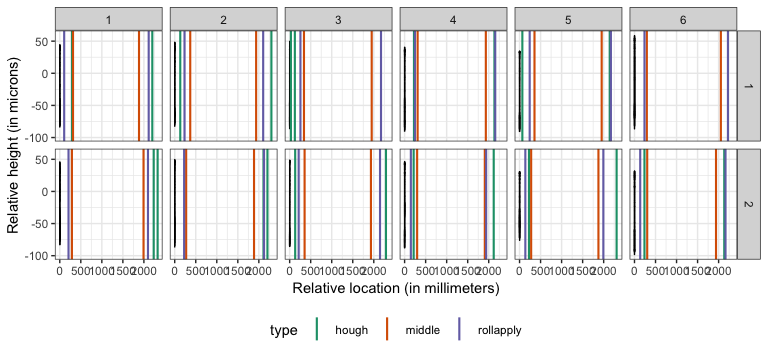
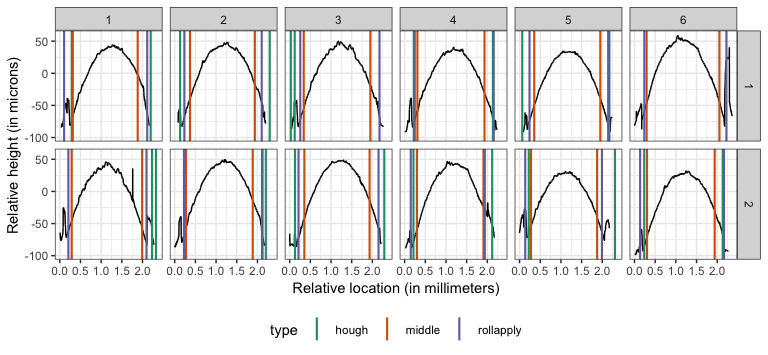
bit of explanation

Changed region(s): [[0.0625, 0.093, 0.9688, 0.7746], [0.0625, 0.1239, 0.125, 0.3718], [0.875, 0.093, 0.9062, 0.1239]]

diff --git a/README.md b/README.md
@@ -166,7 +166,7 @@ profilesplus %>%
   ggplot(aes(x = x/1000, y = value)) +
   facet_grid(bullet~land) +
   geom_line() +
-  geom_vline(aes(xintercept=location, colour=type), size=0.75) +
+  geom_vline(aes(xintercept=location/1000, colour=type), size=0.75) +
   theme_bw() +
   scale_colour_brewer(palette="Dark2") +
   theme(legend.position = "bottom") +
